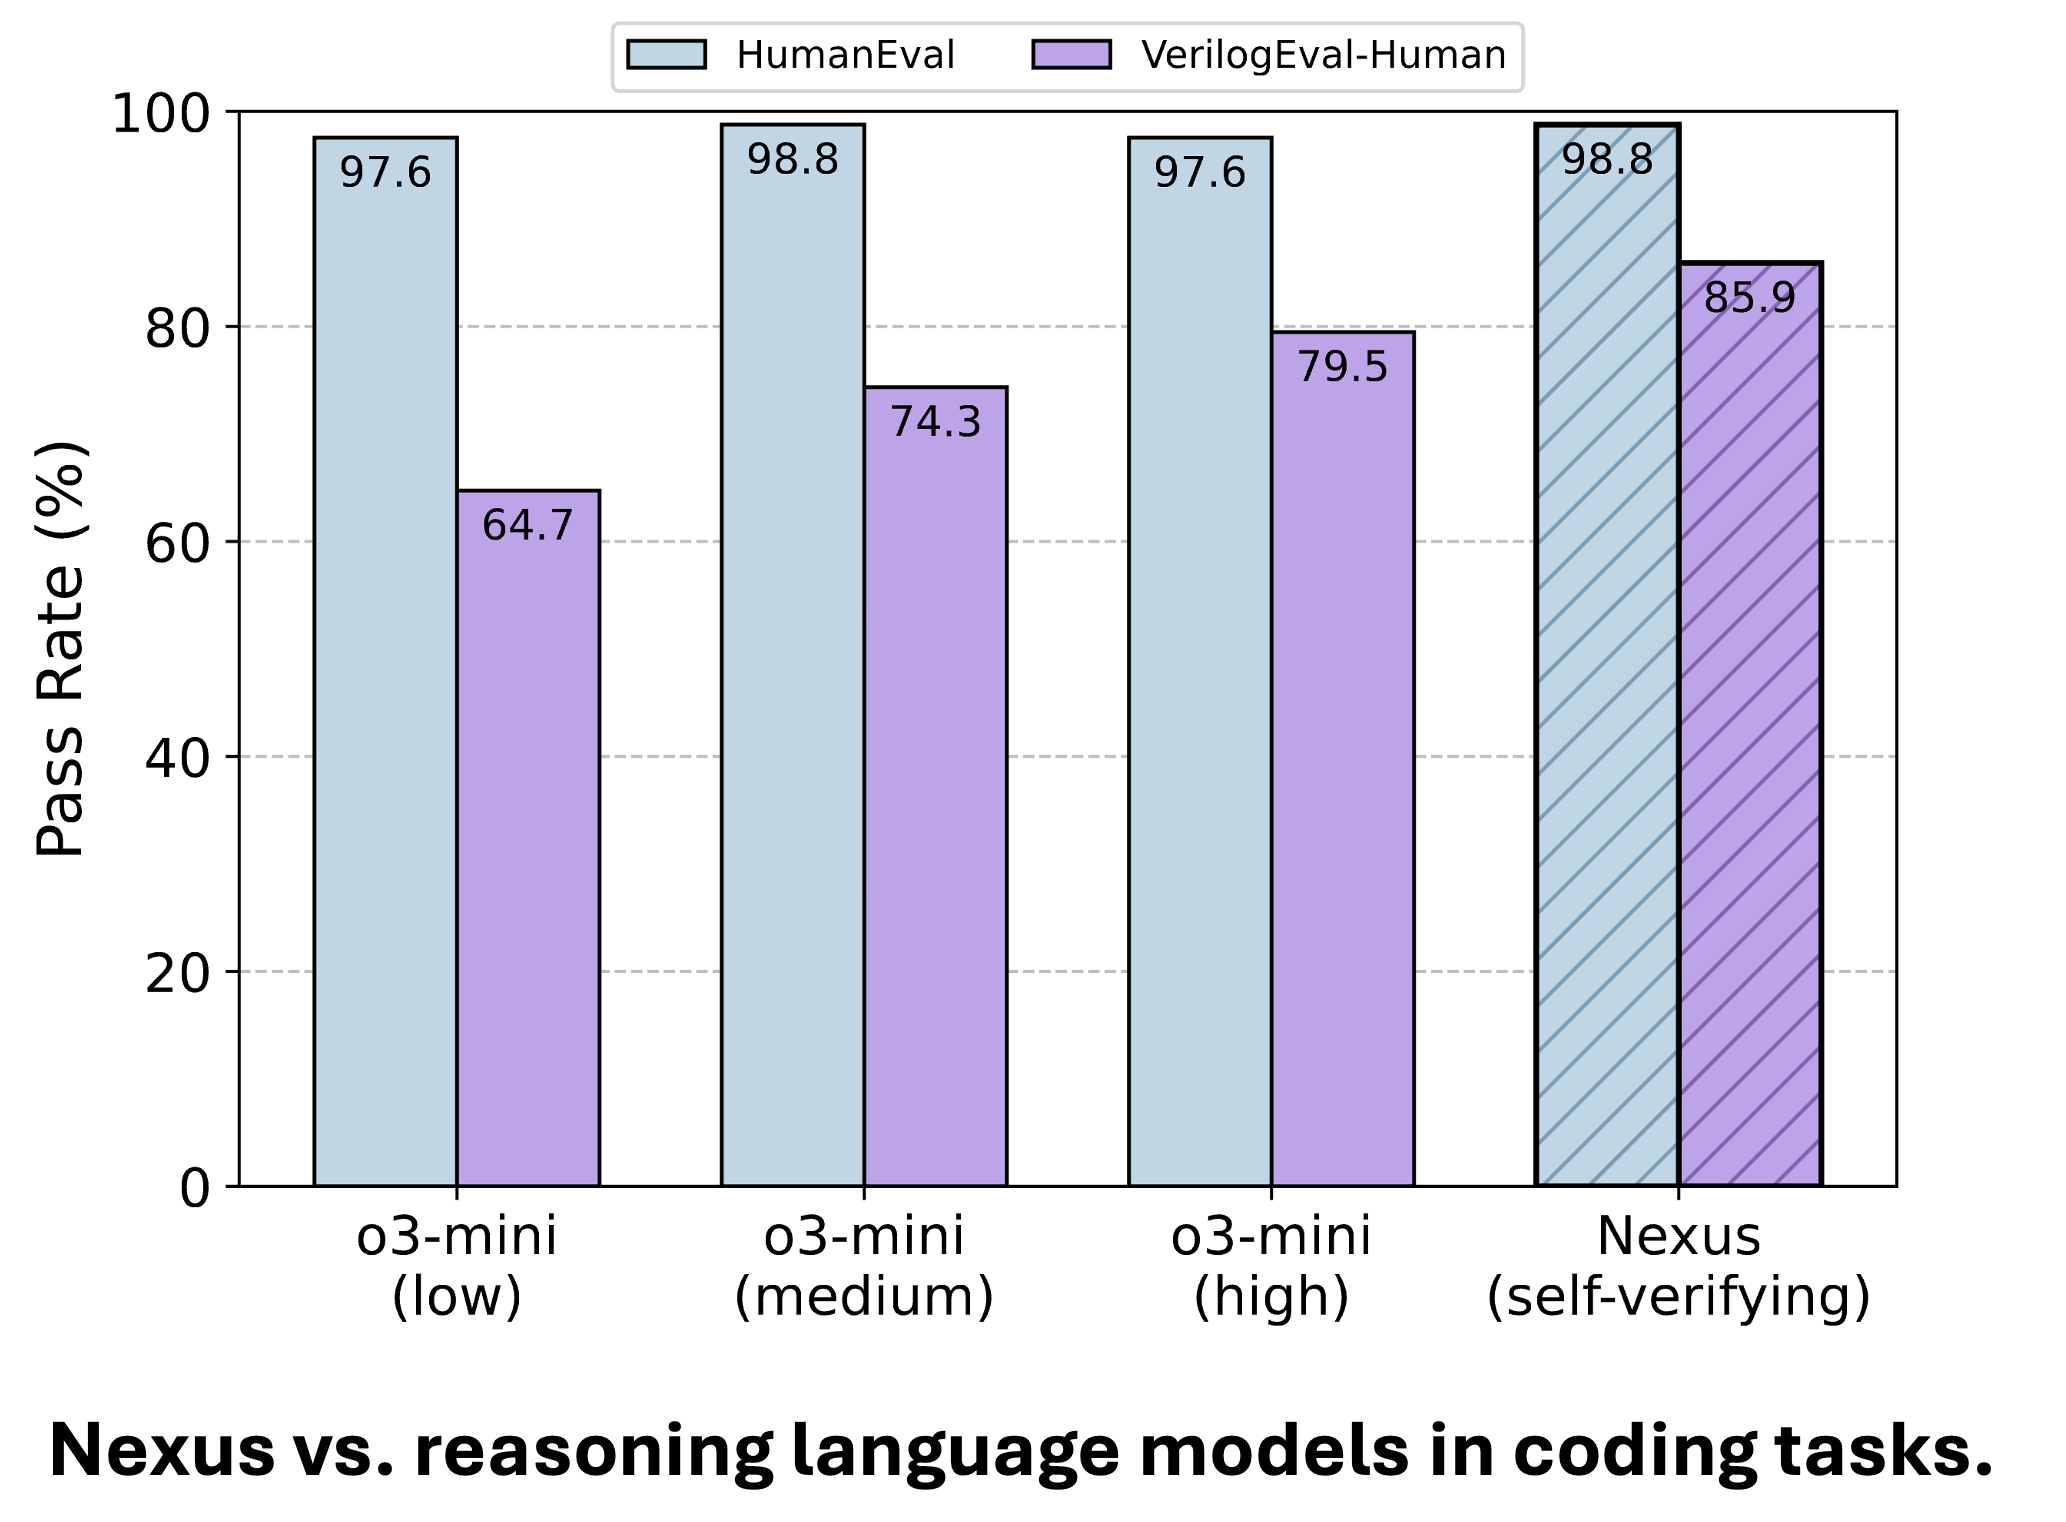
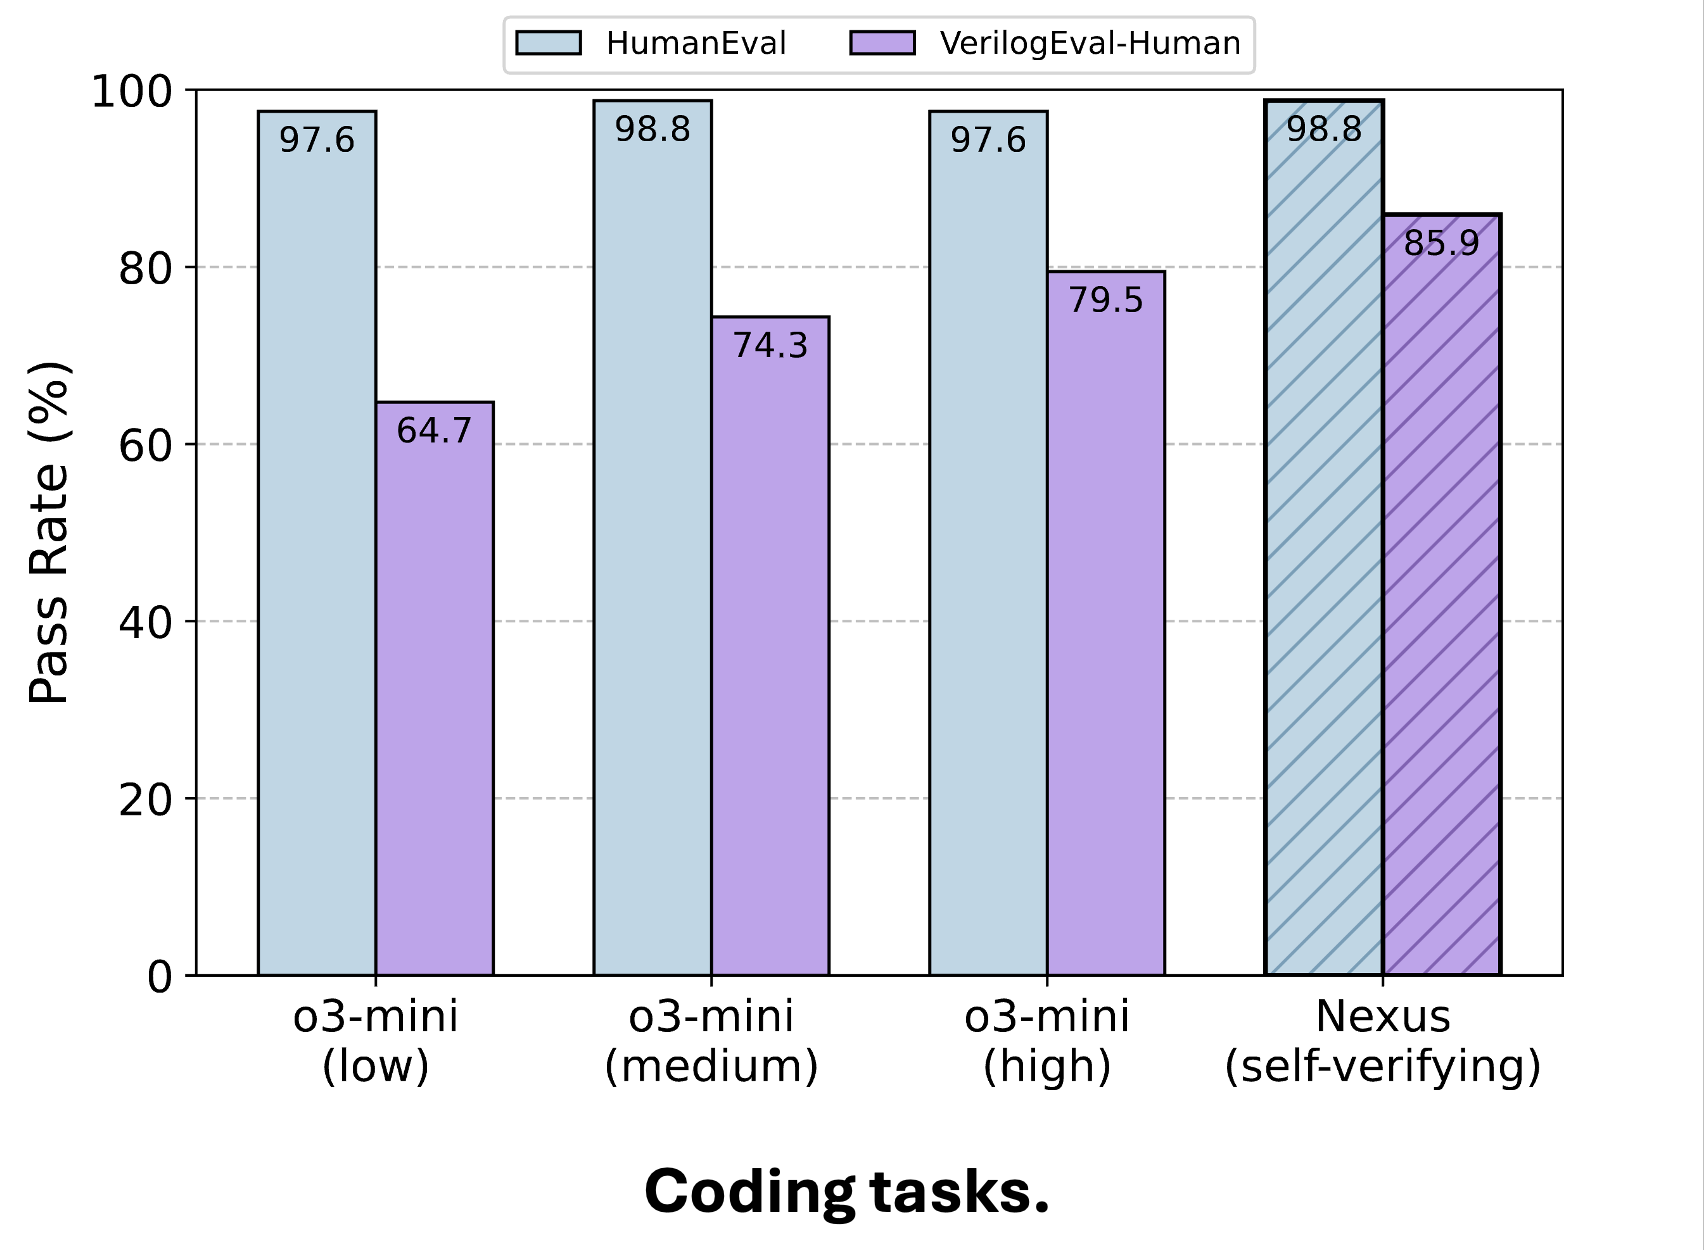
fix: captions

diff --git a/README.md b/README.md
@@ -7,7 +7,7 @@
 PrimisAI Nexus is a powerful and flexible Python package for managing AI agents and coordinating complex tasks using LLMs. It provides a robust framework for creating, managing, and interacting with multiple specialized AI agents under the supervision of a central coordinator.
 
 <div align="center">
-<img src="./examples/images/performance-coding.png" width="275"> <img src="./examples/images/performance-timing-closure.png" width="463">
+<img src="./examples/images/performance-coding.png" width="275"> <img src="./examples/images/performance-timing-closure.png" width="461">
 </div>
 
 ## Features
